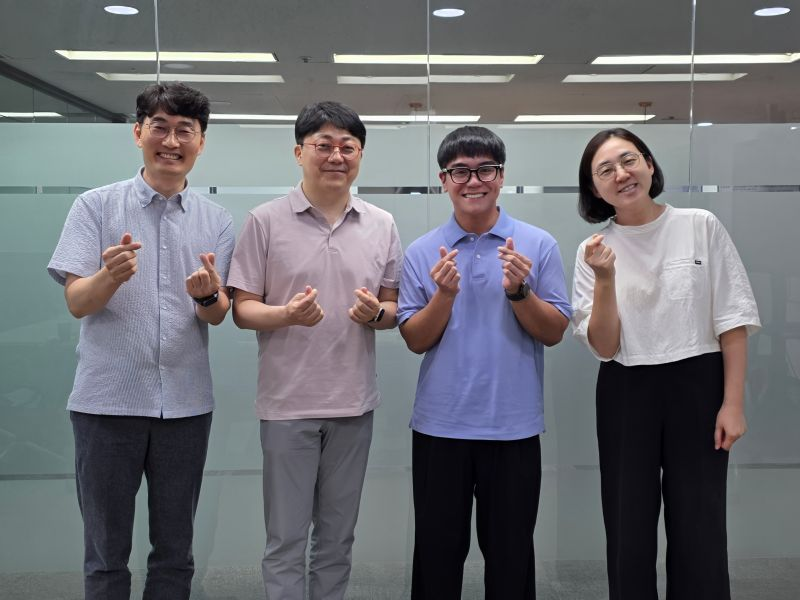
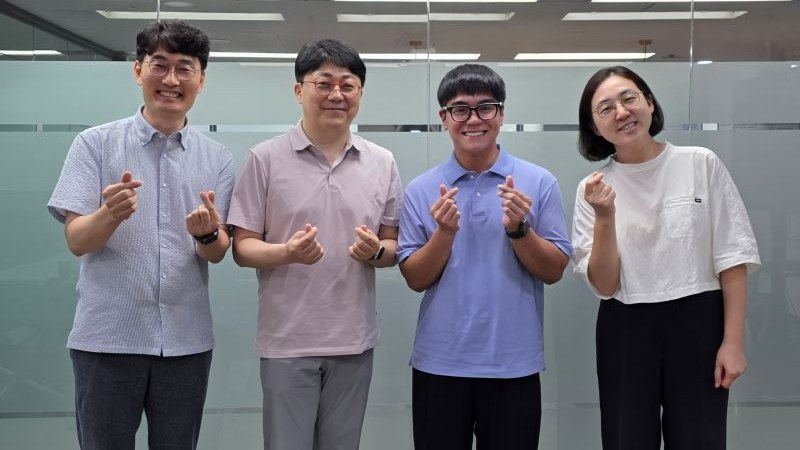
Crop the DI Lab news photo to 16:9 to match the other news image

diff --git a/index.html b/index.html
@@ -1024,7 +1024,7 @@
         </div>
         <div class="news-list" data-seg-panel="news" data-panel="2026">
           <div class="news-item"><span class="when">2026/09</span>: <a class="news-head" href="https://ruzcko.com/talks/s2rain-ai4sci-2026/">Presented <strong>S2RAIN</strong> at <strong>AI4Sci Korea</strong>, Seoul.</a><div class="news-preview"><a href="https://ruzcko.com/talks/s2rain-ai4sci-2026/" aria-label="View the S2RAIN slides"><img src="s2rain.jpg" width="800" height="450" decoding="async" alt="S2RAIN: a stack of satellite image layers with an arrow to an IMERG rainfall map of East Asia" loading="lazy"></a><div class="news-linkedin"><a href="https://ruzcko.com/talks/s2rain-ai4sci-2026/" class="news-copy"><span class="news-summary">Exploring how satellite observations and generative AI can support short-term rainfall forecasts where radar coverage is limited.</span></a><a href="https://ruzcko.com/talks/s2rain-ai4sci-2026/" class="news-social" aria-label="S2RAIN slides"><svg viewBox="0 0 24 24" fill="none" stroke="currentColor" stroke-width="1.7" stroke-linecap="round" stroke-linejoin="round" aria-hidden="true" style="fill: none;"><rect x="3" y="4" width="18" height="12" rx="1.5"/><path d="M12 16v4M8.5 20h7"/></svg></a><a href="https://www.conftool.org/ai4sci-korea-2026/index.php?page=browseSessions&amp;form_date=2026-09-28&amp;form_session=22" class="news-social" aria-label="View conference session"><svg viewBox="0 0 24 24" fill="none" stroke="currentColor" stroke-width="1.7" stroke-linecap="round" stroke-linejoin="round" aria-hidden="true" style="fill: none;"><path d="m10 13 4-4M8 16l-1 1a4 4 0 0 1-6-6l4-4a4 4 0 0 1 6 0M16 8l1-1a4 4 0 0 1 6 6l-4 4a4 4 0 0 1-6 0" transform="translate(2 -1) scale(.85)"/></svg></a></div></div></div>
-          <div class="news-item"><span class="when">2026/08</span>: <a class="news-head" href="https://www.linkedin.com/posts/ruzcko_im-excited-to-share-that-i-recently-joined-ugcPost-7496490925251260417-5EpO/">Joined the Climate Intelligence Lab at <strong>DI Lab, Inc.</strong> as a researcher.</a><div class="news-preview"><a href="https://lnkd.in/p/gHuXCZ43" aria-label="View DI Lab announcement"><img src="di-lab.jpg" width="800" height="600" alt="Photo from my DI Lab announcement" loading="lazy" decoding="async"></a><div class="news-linkedin"><a href="https://www.linkedin.com/posts/ruzcko_im-excited-to-share-that-i-recently-joined-ugcPost-7496490925251260417-5EpO/" class="news-copy"><span class="news-summary">AI and deep learning for space science, including a project with DOST-PAGASA under KOICA’s Creative Technology Solution program.</span></a><a href="https://www.linkedin.com/posts/ruzcko_im-excited-to-share-that-i-recently-joined-ugcPost-7496490925251260417-5EpO/" class="news-social" aria-label="View announcement on LinkedIn"><svg viewBox="0 0 24 24" fill="currentColor" aria-hidden="true"><path d="M19 3a2 2 0 0 1 2 2v14a2 2 0 0 1-2 2H5a2 2 0 0 1-2-2V5a2 2 0 0 1 2-2h14ZM8.34 17.5v-6.6H6.2v6.6h2.14ZM7.27 9.96a1.24 1.24 0 1 0 0-2.48 1.24 1.24 0 0 0 0 2.48Zm10.53 7.54v-3.77c0-1.96-1.05-2.87-2.44-2.87-1.13 0-1.63.62-1.91 1.05v-.9h-2.14c.03.6 0 6.6 0 6.6h2.14v-3.69c0-.19.01-.38.07-.52.16-.38.5-.78 1.09-.78.77 0 1.08.59 1.08 1.44v3.54h2.11Z"/></svg></a></div></div></div>
+          <div class="news-item"><span class="when">2026/08</span>: <a class="news-head" href="https://www.linkedin.com/posts/ruzcko_im-excited-to-share-that-i-recently-joined-ugcPost-7496490925251260417-5EpO/">Joined the Climate Intelligence Lab at <strong>DI Lab, Inc.</strong> as a researcher.</a><div class="news-preview"><a href="https://lnkd.in/p/gHuXCZ43" aria-label="View DI Lab announcement"><img src="di-lab.jpg" width="800" height="450" alt="Photo from my DI Lab announcement" loading="lazy" decoding="async"></a><div class="news-linkedin"><a href="https://www.linkedin.com/posts/ruzcko_im-excited-to-share-that-i-recently-joined-ugcPost-7496490925251260417-5EpO/" class="news-copy"><span class="news-summary">AI and deep learning for space science, including a project with DOST-PAGASA under KOICA’s Creative Technology Solution program.</span></a><a href="https://www.linkedin.com/posts/ruzcko_im-excited-to-share-that-i-recently-joined-ugcPost-7496490925251260417-5EpO/" class="news-social" aria-label="View announcement on LinkedIn"><svg viewBox="0 0 24 24" fill="currentColor" aria-hidden="true"><path d="M19 3a2 2 0 0 1 2 2v14a2 2 0 0 1-2 2H5a2 2 0 0 1-2-2V5a2 2 0 0 1 2-2h14ZM8.34 17.5v-6.6H6.2v6.6h2.14ZM7.27 9.96a1.24 1.24 0 1 0 0-2.48 1.24 1.24 0 0 0 0 2.48Zm10.53 7.54v-3.77c0-1.96-1.05-2.87-2.44-2.87-1.13 0-1.63.62-1.91 1.05v-.9h-2.14c.03.6 0 6.6 0 6.6h2.14v-3.69c0-.19.01-.38.07-.52.16-.38.5-.78 1.09-.78.77 0 1.08.59 1.08 1.44v3.54h2.11Z"/></svg></a></div></div></div>
           <div class="news-item"><span class="when">2026/03</span>: <a class="news-head" href="https://doi.org/10.1016/j.jag.2026.105206"><strong>ESCAPE</strong> published in the <em>International Journal of Applied Earth Observation and Geoinformation</em></a>: physics-informed soil moisture and surface roughness from ALOS-2/PALSAR-2.</div>
           <div class="news-item"><span class="when">2026</span>: Received the <strong>Gilas Award</strong> from the Philippine Embassy in Korea for the third time.</div>
         </div>
